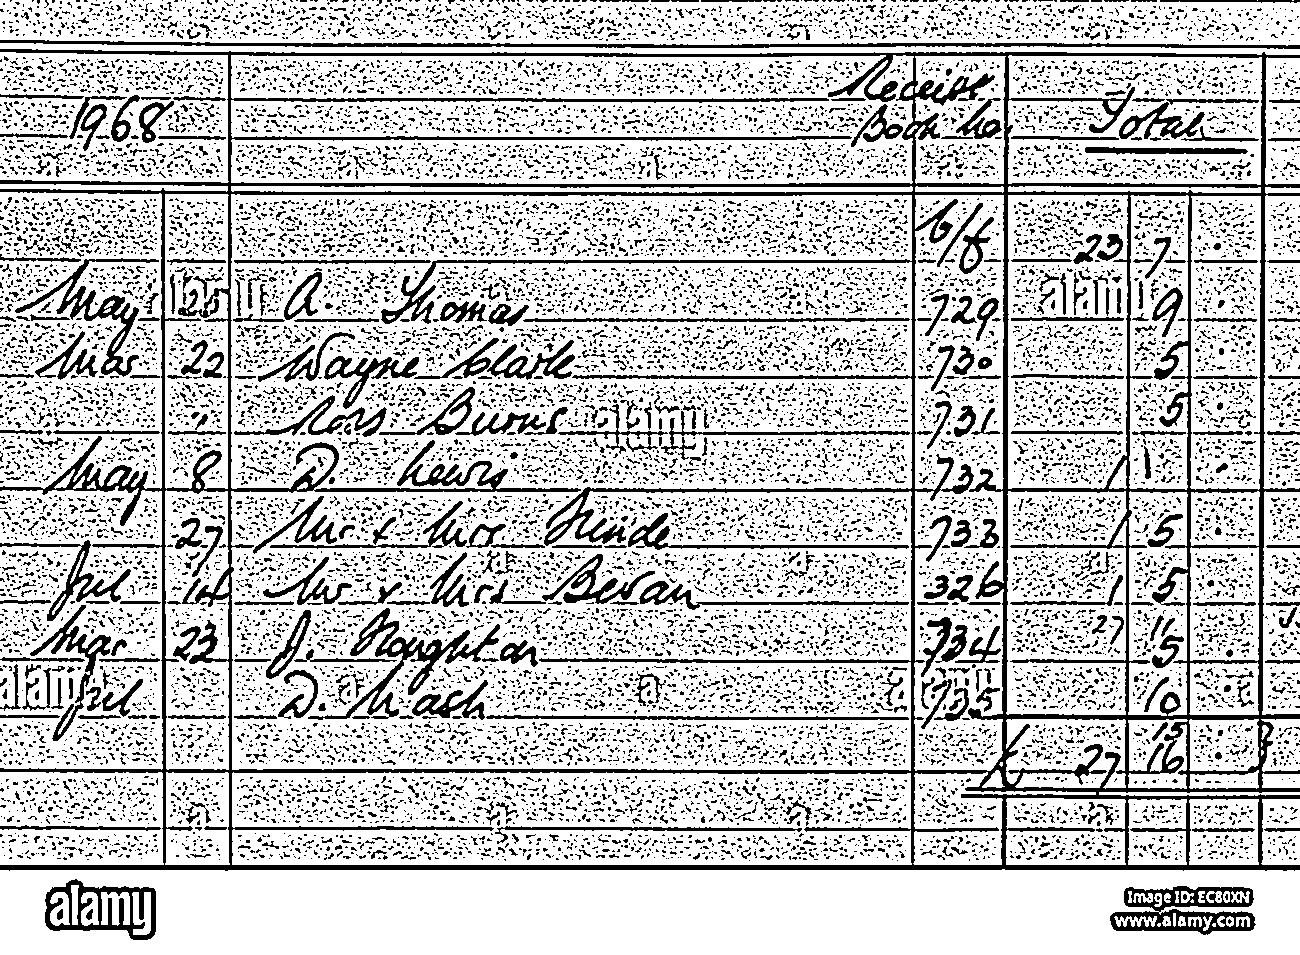
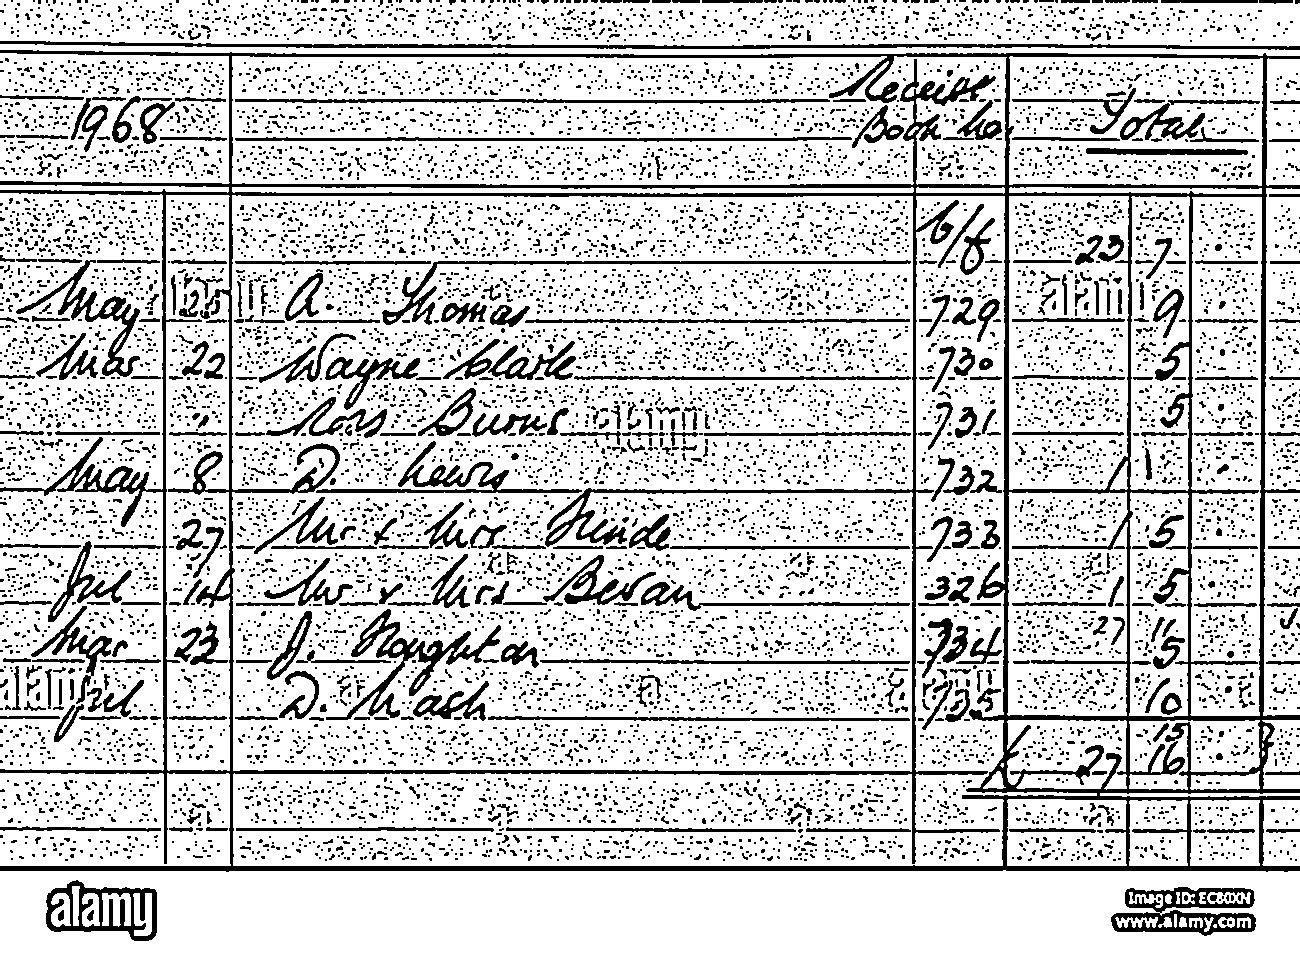
Update

Changed region(s): [[0.0, 0.0, 1.0, 0.9717]]

diff --git a/src/2_ocr_engine.py b/src/2_ocr_engine.py
@@ -2,19 +2,28 @@ import easyocr
 
 def extract_text(image_path):
     # Initialize the reader (only need to do this once)
-    reader = easyocr.Reader(['en'], gpu=True)
+    reader = easyocr.Reader(['en'], gpu=False)
 
     # Run OCR on the cleaned image
+    print(f"Reading text from {image_path}")
     results = reader.readtext(image_path)
-
     extracted_data = []
+
+    # Process results
     for (bbox, text, prob) in results:
         # Only care about high-confidence results
         if prob > 0.4:
-            extracted_data.append(text)
-            print(f"Detected: {text} (Confidence: {prob:.2f})")
+            # Check if the text contains digits (is a number)
+            if any(char.isdigit() for char in text):
+                extracted_data.append({'text': text, "confidence": prob})
+                print(f"Number Detected: {text} (Confidence: {prob:.2f})")
 
+            else:
+                print(f"Detected: {text} (Confidence: {prob:.2f})")
     return extracted_data
 
 if __name__ == "__main__":
-    text = extract_text("data/scleaned_ledger.png")
+    # Ensure the path matches where the cleaned image is saved
+    results = extract_text("data/cleaned_ledger.png")
+    print("\n--- Processing Complete ---")
+    print(f"Total valid items extraced: {len(results)}")

diff --git a/src/1_processor.py b/src/1_processor.py
@@ -31,6 +31,12 @@ def preprocess_image(image_path):
     # This helps the OCR engine focus on the shapes of the letters
     blurred = cv2.GaussianBlur(gray, (5,5), 0)
 
+    kernel = np.array([[0, -1, 0],
+                       [-1, 5, -1],
+                       [0, -1, 0]
+                       ])
+    sharpened = cv2.filter2D(blurred, -1, kernel)
+
     # 3. Apply adaptive thresholding to get rid of shadows 
     # This makes the paper white and the ink black
     processed = cv2.adaptiveThreshold(
@@ -39,7 +45,14 @@ def preprocess_image(image_path):
         cv2.ADAPTIVE_THRESH_GAUSSIAN_C,
         cv2.THRESH_BINARY, 11, 2
     )
+
+    # 4. clean up with Morphology
+    kernel = cv2.getStructuringElement(cv2.MORPH_RECT, (2,2))
+    processed = cv2.dilate(processed, kernel, iterations=1)
+    processed = cv2.erode(processed, kernel, iterations=1)
+
     return processed
+
 
 # Test it
 if __name__ == "__main__":
